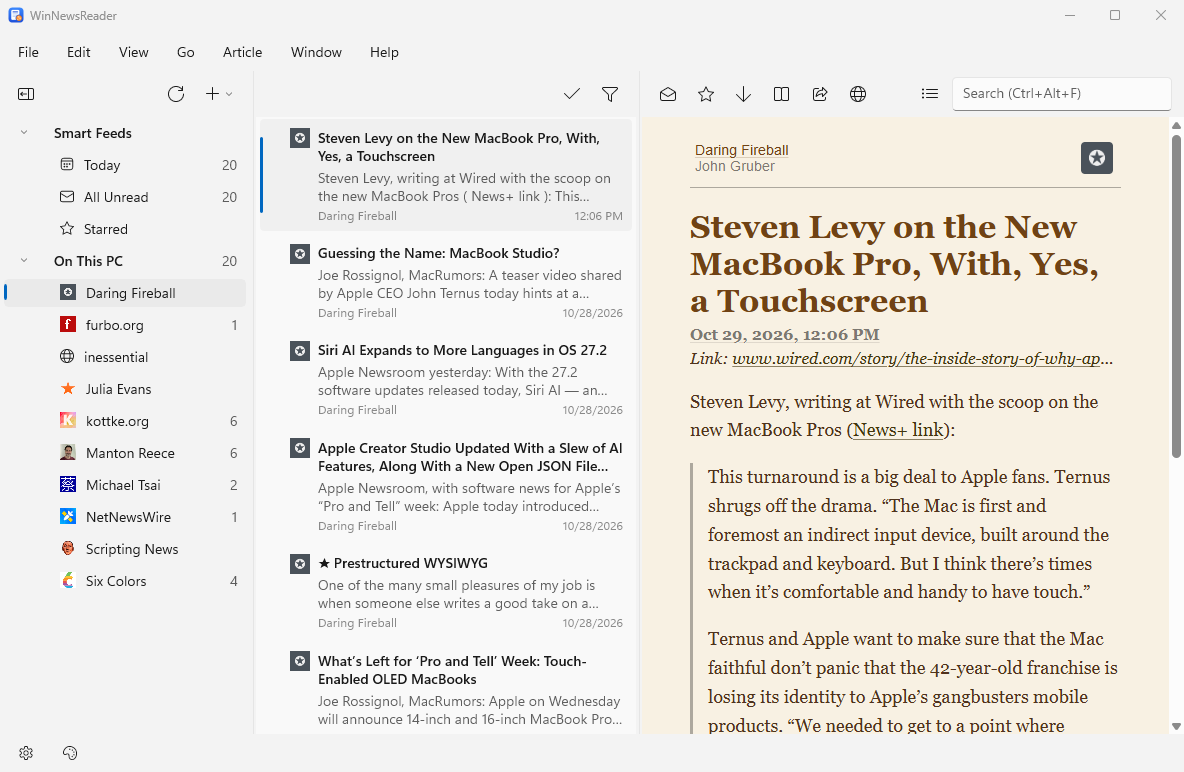
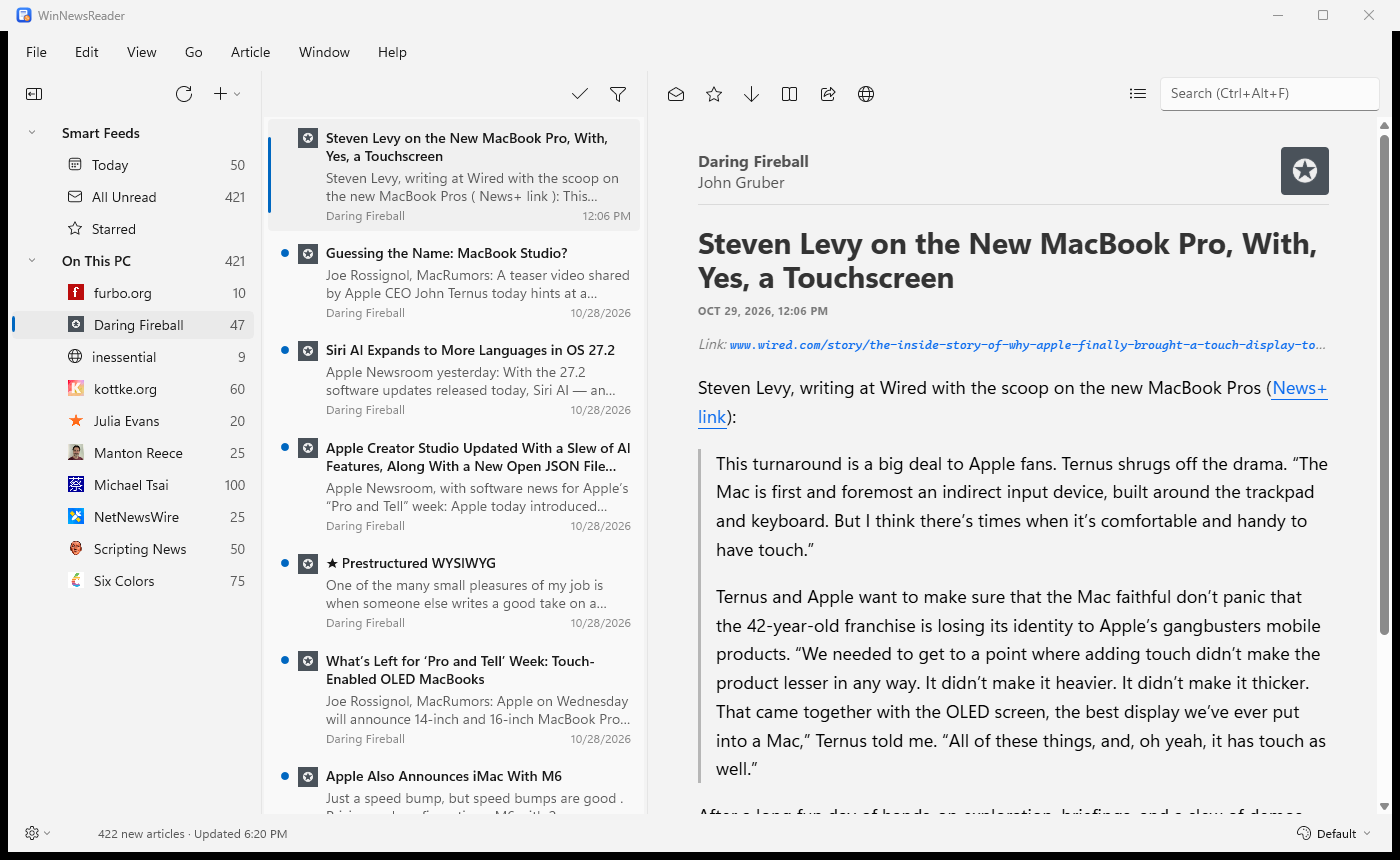
Mail-style column layout, status bar menus with arrows, docs for the new accounts
The column layout puts the table across the top and the article below it,
both full width, with a bar to drag. The status bar's gear has an arrow, and
the theme menu sits on the right with the theme's name and an arrow. Help,
README and PLAN cover Feedbin, NewsBlur, The Old Reader and BazQux.

diff --git a/site/help/index.html b/site/help/index.html
@@ -4,7 +4,7 @@
 	<meta charset="utf-8">
 	<meta name="viewport" content="width=device-width, initial-scale=1">
 	<title>WinNewsReader Help</title>
-	<meta name="description" content="How to use WinNewsReader: subscribing to feeds, reading, keyboard shortcuts, themes, Reader View, search and FreshRSS sync.">
+	<meta name="description" content="How to use WinNewsReader: subscribing to feeds, reading, keyboard shortcuts, themes, Reader View, search and syncing with Feedbin, NewsBlur, The Old Reader, BazQux and FreshRSS.">
 	<meta name="color-scheme" content="light dark">
 	<link rel="icon" href="../favicon.ico" sizes="any">
 	<link rel="icon" href="../icon.png" type="image/png">
@@ -39,7 +39,7 @@
 				<li><a href="#preferences">Preferences</a></li>
 				<li><a href="#inspector">Get Info</a></li>
 				<li><a href="#notifications">Notifications</a></li>
-				<li><a href="#freshrss">Syncing with FreshRSS</a></li>
+				<li><a href="#freshrss">Syncing with other services</a></li>
 				<li><a href="#keyboard">Keyboard shortcuts</a></li>
 				<li><a href="#installing">Installing and updating</a></li>
 				<li><a href="#data">Your data</a></li>
@@ -62,7 +62,7 @@
 			</figure>
 			<p>The menu bar along the top follows NetNewsWire's menus:</p>
 			<ul>
-				<li><strong>File:</strong> New Feed, New Folder, New Window, Refresh, Import and Export Subscriptions, Add FreshRSS Account, Close Window, Preferences and Exit.</li>
+				<li><strong>File:</strong> New Feed, New Folder, New Window, Refresh, Import and Export Subscriptions, Add Account, Close Window, Preferences and Exit.</li>
 				<li><strong>Edit:</strong> Undo and Redo, copying the article's address, Article Search, and Find in Article.</li>
 				<li><strong>View:</strong> show or hide the sidebar, toolbar and status bar; Hide Read Feeds and Hide Read Articles; Clean Up; the sort order, Group by Feed and Use Column Layout; Article Theme, Text Size and Enable JavaScript; Full Screen.</li>
 				<li><strong>Go:</strong> Next Unread, and Today, All Unread and Starred.</li>
@@ -105,7 +105,7 @@
 
 			<p>Right-click an article for more: <strong>Mark Above as Read</strong> and <strong>Mark Below as Read</strong> catch up on everything newer or older in the list, and you can jump to the article's feed in the sidebar or mark everything in that feed as read.</p>
 			<p><strong>View → Group by Feed</strong> keeps each feed's articles together in the timeline, feeds in name order, with the newest (or oldest) first inside each feed.</p>
-			<p><strong>View → Use Column Layout</strong> turns the timeline into a table with one line per article and the columns Unread, Starred, Feed, Title and Date; the timeline widens to fit. Click a column's heading to sort by it, and click it again to reverse the order (the arrow shows which way); <strong>View → Sort Articles By</strong> does the same from the menu. Unread and Starred put those articles first. <strong>Newest Article on Top</strong> and <strong>Oldest Article on Top</strong> go back to sorting by date. Turn the layout off for the usual cards.</p>
+			<p><strong>View → Use Column Layout</strong> turns the timeline into a table with one line per article and the columns Unread, Starred, Feed, Title and Date. As in a mail reader, the table runs across the top, as wide as everything right of the sidebar, and the article is below it, also full width; drag the bar between them to change how tall the table is. Click a column's heading to sort by it, and click it again to reverse the order (the arrow shows which way); <strong>View → Sort Articles By</strong> does the same from the menu. Unread and Starred put those articles first. <strong>Newest Article on Top</strong> and <strong>Oldest Article on Top</strong> go back to sorting by date. Turn the layout off for the usual cards.</p>
 			<figure class="shot">
 				<img src="images/column-layout.png" width="{w}" height="{hh}" alt="The timeline as a table with the columns Feed, Title and Date, sorted by Date, newest first, next to the selected article." loading="lazy">
 				<figcaption>The column layout.</figcaption>
@@ -213,7 +213,7 @@
 				<img src="images/window-dark.png" width="1184" height="772" alt="The WinNewsReader window in Dark appearance, with a dark sidebar, timeline and article." loading="lazy">
 				<figcaption>Dark appearance: the article follows along.</figcaption>
 			</figure>
-			<p>The <strong>Accounts</strong> tab lists your accounts. Turn one off and it disappears from the sidebar and isn't refreshed; turn it back on and it returns. <strong>Add FreshRSS Account…</strong>, <strong>Edit Account…</strong> and <strong>Remove Account…</strong> are here too. Edit lets you rename a FreshRSS account or change its server, username or API password; leave the password blank to keep the saved one. The account keeps its feeds and articles. Each account needs its own name, and the same server and username can't be added twice; a second FreshRSS account is called “FreshRSS 2” until you rename it.</p>
+			<p>The <strong>Accounts</strong> tab lists your accounts. Turn one off and it disappears from the sidebar and isn't refreshed; turn it back on and it returns. <strong>Add Account…</strong>, <strong>Edit Account…</strong> and <strong>Remove Account…</strong> are here too. Edit lets you rename a synced account or change its server (FreshRSS only), username or password; leave the password blank to keep the saved one. The account keeps its feeds and articles. Each account needs its own name, and the same server and username can't be added twice; a second account on the same service is called, for instance, “FreshRSS 2” until you rename it.</p>
 			<figure class="shot narrow">
 				<img src="images/preferences-accounts.png" width="684" height="612" alt="The Accounts preferences, listing the On This PC account with an On switch, and the Add, Edit and Remove buttons below." loading="lazy">
 				<figcaption>Accounts.</figcaption>
@@ -243,14 +243,14 @@
 		</section>
 
 		<section id="freshrss">
-			<h2>Syncing with FreshRSS</h2>
-			<p>If you run or use a <a href="https://freshrss.org/">FreshRSS</a> server, WinNewsReader can sync with it, so your feeds, folders, and read and starred articles match your other devices.</p>
-			<ol>
-				<li>In FreshRSS, open your profile settings and set an <strong>API password</strong> (it's separate from your login password). Make sure the API is turned on in FreshRSS's authentication settings.</li>
-				<li>In WinNewsReader, choose <strong>File → Add FreshRSS Account…</strong> (or use the Accounts tab in Preferences).</li>
-				<li>Enter your server's address, your username and the API password.</li>
-			</ol>
-			<p>The account appears in the sidebar under its own heading. The password is kept in Windows Credential Manager, not in a file. FreshRSS subscribes only to RSS and Atom feeds, so a JSON Feed can't be moved there.</p>
+			<h2>Syncing with other services</h2>
+			<p>WinNewsReader can sync with Feedbin, NewsBlur, The Old Reader, BazQux and FreshRSS, so your feeds, folders, and read and starred articles match your other devices. Choose <strong>File → Add Account…</strong> (or use the Accounts tab in Preferences), pick the service and sign in. The account appears in the sidebar under its own heading, and the password is kept in Windows Credential Manager, not in a file.</p>
+			<ul>
+				<li><strong>Feedbin, The Old Reader and BazQux:</strong> sign in with your email and password.</li>
+				<li><strong>NewsBlur:</strong> sign in with your username and password.</li>
+				<li><strong>FreshRSS:</strong> if you run or use a <a href="https://freshrss.org/">FreshRSS</a> server, open your profile settings there and set an <strong>API password</strong> (it's separate from your login password), and make sure the API is turned on in its authentication settings. Then enter your server's address, your username and the API password.</li>
+			</ul>
+			<p>Feedbin lets a feed sit in several folders or at the top level. FreshRSS, The Old Reader and BazQux put every feed in exactly one folder, and NewsBlur in exactly one place. FreshRSS, The Old Reader and BazQux subscribe only to RSS and Atom feeds, so a JSON Feed can't be moved there. Inoreader and Feedly aren't supported yet.</p>
 		</section>
 
 		<section id="keyboard">

diff --git a/src/App/MainWindow.xaml b/src/App/MainWindow.xaml
@@ -185,9 +185,12 @@
                 <SolidColorBrush x:Key="ToggleButtonBackgroundCheckedDisabled" Color="Transparent" />
                 <SolidColorBrush x:Key="ToggleButtonBorderBrushCheckedDisabled" Color="Transparent" />
             </Grid.Resources>
+            <!-- Rows 2 and 3 are the column layout's: a bar to drag, and the article below the table. -->
             <Grid.RowDefinitions>
                 <RowDefinition Height="Auto" />
-                <RowDefinition Height="*" />
+                <RowDefinition x:Name="TimelineRow" Height="*" />
+                <RowDefinition x:Name="SplitterRow" Height="0" />
+                <RowDefinition x:Name="ArticleRow" Height="0" />
             </Grid.RowDefinitions>
             <Grid.ColumnDefinitions>
                 <ColumnDefinition x:Name="SidebarColumn" Width="250" />
@@ -299,7 +302,7 @@
                 </Grid>
             </Grid>
 
-            <TreeView x:Name="Sidebar" Grid.Row="1" Grid.Column="0" ItemsSource="{x:Bind ViewModel.SidebarItems}" DoubleTapped="OnSidebarDoubleTapped"
+            <TreeView x:Name="Sidebar" Grid.Row="1" Grid.RowSpan="3" Grid.Column="0" ItemsSource="{x:Bind ViewModel.SidebarItems}" DoubleTapped="OnSidebarDoubleTapped"
                       SelectionMode="Single" CanDragItems="True" CanReorderItems="False" AllowDrop="True" DragOver="OnSidebarDragOver" Drop="OnSidebarDrop"
                       DragItemsStarting="OnSidebarDragItemsStarting" DragItemsCompleted="OnSidebarDragItemsCompleted"
                       SelectionChanged="OnSidebarSelectionChanged"
@@ -338,7 +341,7 @@
                 </TreeView.ItemTemplate>
             </TreeView>
 
-            <local:PaneSplitter x:Name="SidebarSplitter" Grid.RowSpan="2" Grid.Column="1">
+            <local:PaneSplitter x:Name="SidebarSplitter" Grid.RowSpan="4" Grid.Column="1">
                 <Rectangle Width="1" HorizontalAlignment="Center" Fill="{ThemeResource DividerStrokeColorDefaultBrush}" />
             </local:PaneSplitter>
 
@@ -422,7 +425,7 @@
             </ListView>
 
             <!-- With no feed selected the timeline has nothing to list, so it says so, as the article pane does. -->
-            <StackPanel Grid.Row="1" Grid.Column="2" Spacing="10" HorizontalAlignment="Center" VerticalAlignment="Center" Padding="24"
+            <StackPanel x:Name="NoFeedPanel" Grid.Row="1" Grid.Column="2" Spacing="10" HorizontalAlignment="Center" VerticalAlignment="Center" Padding="24"
                         IsHitTestVisible="False" Visibility="{x:Bind ViewModel.HasNoFeedSelected, Mode=OneWay}">
                 <FontIcon Glyph="&#xE8FD;" FontSize="40" Foreground="{ThemeResource TextFillColorTertiaryBrush}" />
                 <TextBlock Text="No Feed Selected" Style="{ThemeResource SubtitleTextBlockStyle}" HorizontalAlignment="Center"
@@ -431,11 +434,16 @@
                            Foreground="{ThemeResource TextFillColorTertiaryBrush}" />
             </StackPanel>
 
-            <local:PaneSplitter x:Name="TimelineSplitter" Grid.RowSpan="2" Grid.Column="3">
+            <local:PaneSplitter x:Name="TimelineSplitter" Grid.RowSpan="4" Grid.Column="3">
                 <Rectangle Width="1" HorizontalAlignment="Center" Fill="{ThemeResource DividerStrokeColorDefaultBrush}" />
             </local:PaneSplitter>
 
-            <Grid Grid.Row="1" Grid.Column="4" Background="{ThemeResource LayerFillColorDefaultBrush}">
+            <!-- The column layout's bar between the table and the article below it. -->
+            <local:RowSplitter x:Name="ArticleSplitter" Grid.Row="2" Grid.Column="2" Grid.ColumnSpan="3" Visibility="Collapsed">
+                <Rectangle Height="1" VerticalAlignment="Center" Fill="{ThemeResource DividerStrokeColorDefaultBrush}" />
+            </local:RowSplitter>
+
+            <Grid x:Name="ArticlePane" Grid.Row="1" Grid.Column="4" Background="{ThemeResource LayerFillColorDefaultBrush}">
                 <WebView2 x:Name="ArticleView" AutomationProperties.Name="Article" />
                 <!-- NetNewsWire's Find in Article (Ctrl+F), as a bar over the article. -->
                 <Border x:Name="FindBar" Visibility="Collapsed" HorizontalAlignment="Right" VerticalAlignment="Top" Margin="0,12,28,0"
@@ -469,29 +477,37 @@
             <Grid.ColumnDefinitions>
                 <ColumnDefinition Width="Auto" />
                 <ColumnDefinition Width="Auto" />
-                <ColumnDefinition Width="Auto" />
                 <ColumnDefinition Width="*" />
+                <ColumnDefinition Width="Auto" />
             </Grid.ColumnDefinitions>
             <Button Style="{StaticResource ToolbarButtonStyle}" IsEnabled="{x:Bind ViewModel.HasSidebarSelection, Mode=OneWay}"
                     ToolTipService.ToolTip="Actions for the selected feed or folder" AutomationProperties.Name="Selection Actions">
-                <FontIcon Glyph="&#xE713;" FontSize="14" />
+                <StackPanel Orientation="Horizontal" Spacing="4">
+                    <FontIcon Glyph="&#xE713;" FontSize="14" />
+                    <FontIcon Glyph="&#xE70D;" FontSize="8" />
+                </StackPanel>
                 <Button.Flyout>
                     <MenuFlyout x:Name="StatusActionsMenu" Opening="OnStatusActionsMenuOpening" />
                 </Button.Flyout>
             </Button>
-            <Button Grid.Column="1" Style="{StaticResource ToolbarButtonStyle}"
-                    ToolTipService.ToolTip="Article Theme" AutomationProperties.Name="Article Theme">
-                <FontIcon Glyph="&#xE790;" FontSize="14" />
-                <Button.Flyout>
-                    <MenuFlyout x:Name="StatusThemeMenu" Opening="OnStatusThemeMenuOpening" />
-                </Button.Flyout>
-            </Button>
-            <ProgressRing Grid.Column="2" Width="14" Height="14" IsActive="{x:Bind ViewModel.IsRefreshing, Mode=OneWay}" />
-            <Button Grid.Column="3" HorizontalAlignment="Left" VerticalAlignment="Center" MinHeight="0" Padding="6,2" Background="Transparent" BorderThickness="0"
+            <ProgressRing Grid.Column="1" Width="14" Height="14" IsActive="{x:Bind ViewModel.IsRefreshing, Mode=OneWay}" />
+            <Button Grid.Column="2" HorizontalAlignment="Left" VerticalAlignment="Center" MinHeight="0" Padding="6,2" Background="Transparent" BorderThickness="0"
                     Click="OnStatusClicked" ToolTipService.ToolTip="Click to show the unread count, the feed count or the last refresh"
                     AutomationProperties.Name="Status">
                 <TextBlock Text="{x:Bind ViewModel.StatusLine, Mode=OneWay}" Style="{ThemeResource CaptionTextBlockStyle}"
                            Foreground="{ThemeResource TextFillColorSecondaryBrush}" />
+            </Button>
+            <!-- On the right, as NetNewsWire's theme menu is: the theme's name and an arrow beside the icon. -->
+            <Button Grid.Column="3" Style="{StaticResource ToolbarButtonStyle}" HorizontalAlignment="Right"
+                    ToolTipService.ToolTip="Article Theme" AutomationProperties.Name="Article Theme">
+                <StackPanel Orientation="Horizontal" Spacing="6">
+                    <FontIcon Glyph="&#xE790;" FontSize="14" />
+                    <TextBlock x:Name="StatusThemeText" VerticalAlignment="Center" Style="{ThemeResource CaptionTextBlockStyle}" />
+                    <FontIcon Glyph="&#xE70D;" FontSize="8" />
+                </StackPanel>
+                <Button.Flyout>
+                    <MenuFlyout x:Name="StatusThemeMenu" Opening="OnStatusThemeMenuOpening" Placement="TopEdgeAlignedRight" />
+                </Button.Flyout>
             </Button>
         </Grid>
     </Grid>

diff --git a/src/App/MainWindow.xaml.cs b/src/App/MainWindow.xaml.cs
@@ -92,11 +92,13 @@ public sealed partial class MainWindow : Window
 		RefreshViewMenu();
 		ViewMenuBarItem.PointerEntered += (_, _) => RefreshViewMenu();
 		ViewMenuBarItem.GotFocus += (_, _) => RefreshViewMenu();
-		ViewModel.ArticleAppearanceChanged += (_, _) => RefreshViewMenu();
+		ViewModel.ArticleAppearanceChanged += (_, _) => { RefreshViewMenu(); ShowThemeName(); };
+		ShowThemeName();
 		// Ctrl+click and Shift+click add to the selection; the tree has already handled the click by the time it bubbles here.
 		Sidebar.AddHandler(UIElement.PointerPressedEvent, new PointerEventHandler(OnSidebarPointerPressed), true);
 		ViewModel.Undo.Changed += (_, _) => UpdateUndoMenu();
 		SidebarSplitter.Column = SidebarColumn;
+		ArticleSplitter.Row = TimelineRow;
 		TimelineSplitter.Column = TimelineColumn;
 		Timeline.ItemsSource = ViewModel.Articles;
 		ViewModel.PropertyChanged += OnViewModelPropertyChanged;
@@ -684,9 +686,8 @@ public sealed partial class MainWindow : Window
 
 	private DataTemplate? _rowTemplate;
 
-	private const double ColumnLayoutWidth = 560;
-
-	private double? _widthBeforeColumns;
+	/// <summary>How tall the table is in the column layout, kept for the next time it is turned on.</summary>
+	private double _tableHeight = 280;
 
 	private void OnToggleColumnLayout(object sender, RoutedEventArgs e) => ViewModel.SetColumnLayout(((ToggleMenuFlyoutItem)sender).IsChecked);
 
@@ -702,16 +703,31 @@ public sealed partial class MainWindow : Window
 		Timeline.ItemTemplate = on ? (DataTemplate)Root.Resources["ColumnRowTemplate"] : _rowTemplate;
 		ColumnHeader.Visibility = on ? Visibility.Visible : Visibility.Collapsed;
 		Timeline.Margin = new Thickness(0, on ? ColumnHeader.Height : 0, 0, 0);
-		// A table needs more room than a list of cards: widen the timeline for it, and put it back after.
-		if (on && TimelineColumn.ActualWidth is > 0 and < ColumnLayoutWidth && _widthBeforeColumns is null)
+		// NetNewsWire's column layout, as a mail reader has it: the table across the top and the article below it,
+		// both as wide as everything right of the sidebar.
+		var span = on ? 3 : 1;
+		Grid.SetColumnSpan(Timeline, span);
+		Grid.SetColumnSpan(ColumnHeader, span);
+		Grid.SetColumnSpan(NoFeedPanel, span);
+		Grid.SetRow(ArticlePane, on ? 3 : 1);
+		Grid.SetColumn(ArticlePane, on ? 2 : 4);
+		Grid.SetColumnSpan(ArticlePane, span);
+		TimelineSplitter.Visibility = on ? Visibility.Collapsed : Visibility.Visible;
+		ArticleSplitter.Visibility = on ? Visibility.Visible : Visibility.Collapsed;
+		SplitterRow.Height = new GridLength(on ? 6 : 0);
+		if (on)
 		{
-			_widthBeforeColumns = TimelineColumn.ActualWidth;
-			TimelineColumn.Width = new GridLength(ColumnLayoutWidth);
+			TimelineRow.Height = new GridLength(_tableHeight);
+			ArticleRow.Height = new GridLength(1, GridUnitType.Star);
 		}
-		else if (!on && _widthBeforeColumns is { } before)
+		else
 		{
-			TimelineColumn.Width = new GridLength(before);
-			_widthBeforeColumns = null;
+			if (TimelineRow.ActualHeight > 0 && ArticleRow.Height.IsStar)
+			{
+				_tableHeight = TimelineRow.ActualHeight;
+			}
+			TimelineRow.Height = new GridLength(1, GridUnitType.Star);
+			ArticleRow.Height = new GridLength(0);
 		}
 		UpdateColumnHeaders();
 	}
@@ -1563,6 +1579,8 @@ public sealed partial class MainWindow : Window
 		var menu = (MenuFlyout)sender!;
 		FillThemeMenu(menu.Items);
 	}
+
+	private void ShowThemeName() => StatusThemeText.Text = ViewModel.CurrentTheme.Name;
 
 	private void OnStatusClicked(object sender, RoutedEventArgs e) => ViewModel.CycleStatus();
 

diff --git a/src/App/RowSplitter.cs b/src/App/RowSplitter.cs
@@ -1,0 +1,63 @@
+using Microsoft.UI;
+using Microsoft.UI.Input;
+using Microsoft.UI.Xaml;
+using Microsoft.UI.Xaml.Controls;
+using Microsoft.UI.Xaml.Input;
+using Microsoft.UI.Xaml.Media;
+
+namespace WinNewsReader.App;
+
+/// <summary>A horizontal bar that resizes <see cref="Row"/>, the grid row above it, when dragged.</summary>
+public sealed partial class RowSplitter : Grid
+{
+	private bool _dragging;
+	private double _startY;
+	private double _startHeight;
+
+	public RowSplitter()
+	{
+		// A transparent background makes the whole bar hit-testable.
+		Background = new SolidColorBrush(Colors.Transparent);
+		ProtectedCursor = InputSystemCursor.Create(InputSystemCursorShape.SizeNorthSouth);
+		PointerPressed += OnPointerPressed;
+		PointerMoved += OnPointerMoved;
+		PointerReleased += OnPointerReleased;
+		PointerCaptureLost += (_, _) => _dragging = false;
+	}
+
+	public RowDefinition? Row { get; set; }
+
+	public double MinimumHeight { get; set; } = 120;
+
+	/// <summary>How much of the grid the row above may take at most, leaving the rest for the pane below.</summary>
+	public double MaximumHeight { get; set; } = 2000;
+
+	private void OnPointerPressed(object sender, PointerRoutedEventArgs e)
+	{
+		if (Row is null)
+		{
+			return;
+		}
+		_dragging = CapturePointer(e.Pointer);
+		_startY = e.GetCurrentPoint(null).Position.Y;
+		_startHeight = Row.ActualHeight;
+		e.Handled = true;
+	}
+
+	private void OnPointerMoved(object sender, PointerRoutedEventArgs e)
+	{
+		if (_dragging && Row is not null)
+		{
+			var height = _startHeight + e.GetCurrentPoint(null).Position.Y - _startY;
+			Row.Height = new GridLength(Math.Clamp(height, MinimumHeight, MaximumHeight));
+			e.Handled = true;
+		}
+	}
+
+	private void OnPointerReleased(object sender, PointerRoutedEventArgs e)
+	{
+		_dragging = false;
+		ReleasePointerCapture(e.Pointer);
+		e.Handled = true;
+	}
+}

diff --git a/README.md b/README.md
@@ -13,14 +13,18 @@ Status: Phase 2 (the Windows app) has started. Phase 1 (the core engine) is done
 | `src/Parser` | RSS, RSS 1.0 (RDF), Atom, JSON Feed, RSS-in-JSON and OPML parsers, plus HTML link and metadata parsers, ported from NetNewsWire's RSParser so the same feed gives the same article IDs |
 | `src/Store` | SQLite store for feeds, folders, articles and read/starred status, following NetNewsWire's schema |
 | `src/Core` | Downloading (conditional GET, per-host limits, redirects), the feed finder, favicons, OPML export, settings, the account interface with the local "On This PC" account, and article rendering with NetNewsWire's templates and themes |
-| `src/Sync.GoogleReader` | FreshRSS sync over the Google Reader API, ported from NetNewsWire's ReaderAPI account |
+| `src/Sync.GoogleReader` | FreshRSS, The Old Reader and BazQux sync over the Google Reader API, ported from NetNewsWire's ReaderAPI account |
+| `src/Sync.Feedbin` | Feedbin sync, ported from NetNewsWire's Feedbin account |
+| `src/Sync.NewsBlur` | NewsBlur sync, ported from NetNewsWire's NewsBlur account |
 | `src/App` | The WinUI 3 app (Windows App SDK, unpackaged): sidebar, timeline and article view |
 | `src/Cli` | `wnr`, a headless driver for the core |
 | `tools` | `make-icon.ps1`, which draws the app icon |
 | `site` | The website at [winnewsreader.com](https://winnewsreader.com), published to GitHub Pages by `.github/workflows/pages.yml` when it changes on `main` |
 | `tests/Parser.Tests` | NetNewsWire's parser tests ported to xUnit, run against its fixtures |
 | `tests/Store.Tests` | Store, folder, OPML round-trip, refresh, download and feed finder tests |
-| `tests/Sync.GoogleReader.Tests` | FreshRSS sync against an in-memory Reader API server |
+| `tests/Sync.GoogleReader.Tests` | Reader API sync against an in-memory Reader API server |
+| `tests/Sync.Feedbin.Tests` | Feedbin sync against an in-memory Feedbin server |
+| `tests/Sync.NewsBlur.Tests` | NewsBlur sync against an in-memory NewsBlur server |
 
 ## Build and test
 

diff --git a/docs/PLAN.md b/docs/PLAN.md
@@ -75,7 +75,9 @@ src/
   Core/              models, account abstraction, refresh scheduler
   Parser/            RSS, Atom, JSON Feed, RSS-in-JSON, OPML, FeedFinder
   Store/             SQLite articles + sync-status DBs
-  Sync.GoogleReader/ Inoreader, FreshRSS, The Old Reader, BazQux
+  Sync.GoogleReader/ FreshRSS, The Old Reader, BazQux (Inoreader later)
+  Sync.Feedbin/      Feedbin
+  Sync.NewsBlur/     NewsBlur
   Sync.Feedbin/
   Sync.NewsBlur/
   Sync.Feedly/       only if API access is granted
@@ -188,4 +190,8 @@ The [parity matrix](parity-matrix.md) has a status for each of its 237 rows (aud
   - [x] Checked against a real FreshRSS server: 101 feeds, 11 folders, read and unread both ways
   - [x] Moving feeds between folders (FreshRSS keeps each feed in one folder, so no top level or copies)
   - [x] OPML import into a sync account, subscribing feed by feed (tested with a fake account; the file picker not driven)
-  - [ ] Inoreader, The Old Reader and BazQux variants
+  - [x] The Old Reader and BazQux, as Reader API variants with a fixed host (The Old Reader keeps its own article IDs and has no call to delete a label)
+  - [x] Feedbin account: API v2 client, tags as folders (a feed can have several), paged entries, unread and starred lists
+  - [x] NewsBlur account: session login that renews itself, folders by name, story hashes, status sends
+  - [x] Add Account: a service list grouped as web and self-hosted, then that service's sign-in sheet; Edit and Remove for any sync account
+  - [ ] Inoreader and Feedly, which need API keys or access
